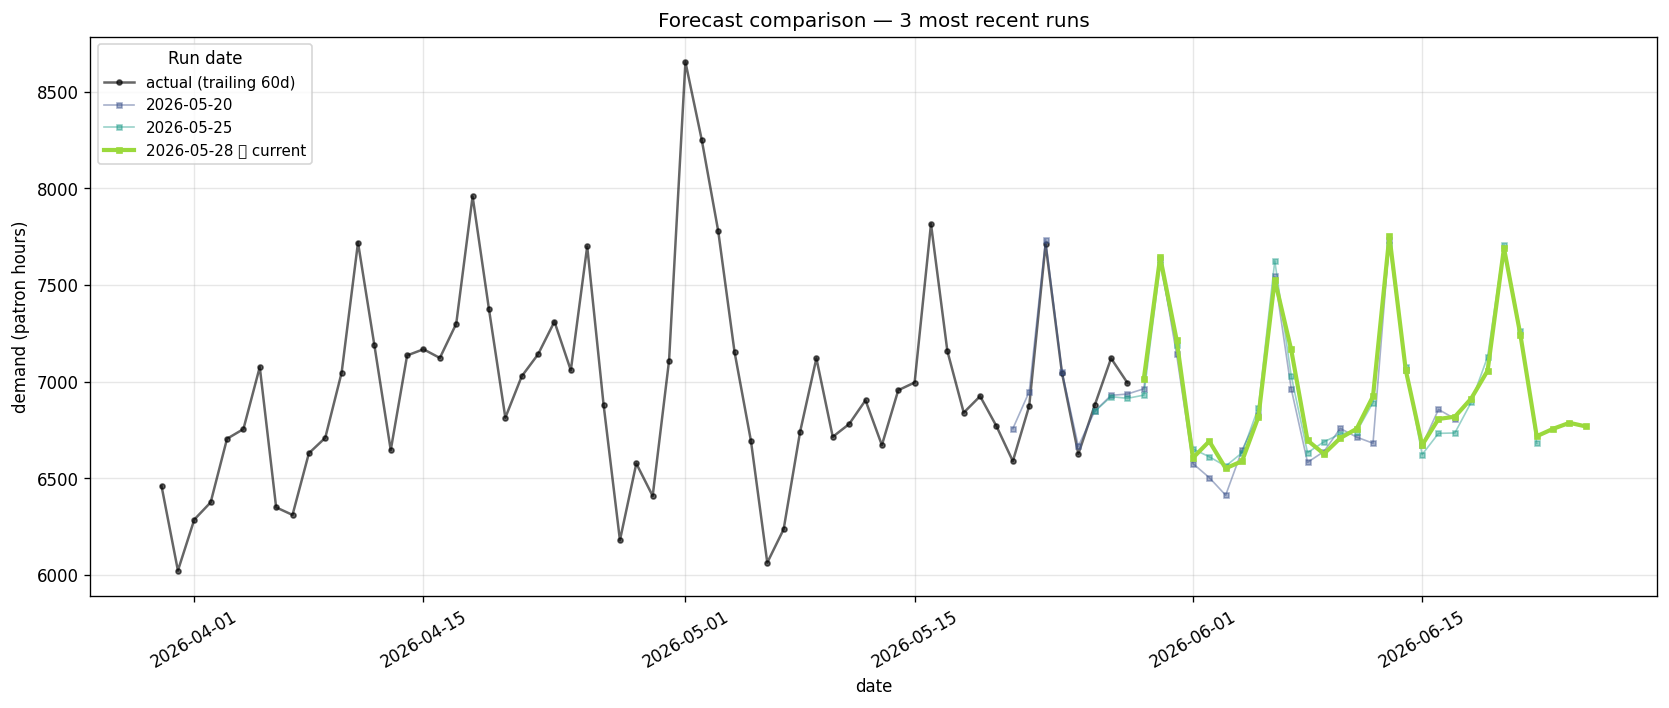
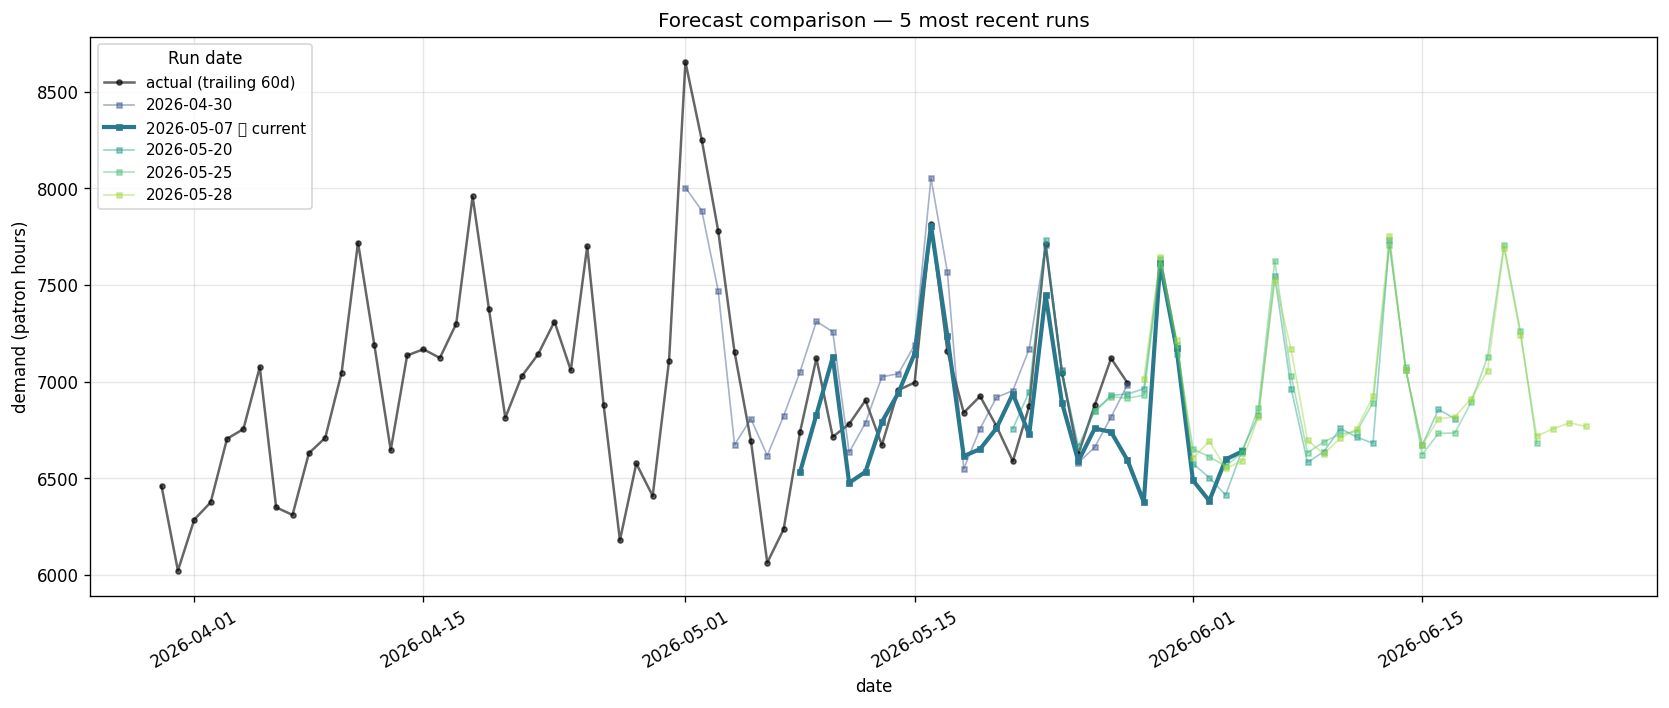
update

diff --git a/run_schedule.py b/run_schedule.py
@@ -1,0 +1,118 @@
+"""run_schedule.py — run a day-by-day forecasting cycle in one command.
+
+Given an initial scheduling window (FROM TO) and a set of update run-dates, this
+produces the frozen initial plan plus each re-forecast, all from the CURRENT
+data/raw/rawdata.csv.
+
+You do NOT need to trim rawdata.csv between runs: forecast.py's leakage guard
+trains each run only on data <= its run-date. So keep every actual you have in
+rawdata.csv, and this script replays the cycle by varying the run-date. Each run
+still trains honestly (no future data leaks in).
+
+After all runs it builds forecasts/tracking_comparison.png — actual demand vs
+the frozen initial plan vs the latest forecast, focused on the initial window.
+
+Examples
+--------
+    # Initial plan Jun 8-Jul 5 (run-date Jun 7), then re-forecast on Jun 14 & 19:
+    uv run python run_schedule.py --initial 2026-06-08 2026-07-05 \
+        --updates 2026-06-14 2026-06-19 --full --blend selection
+
+    # Same, but re-forecast every 7 days from the start until the window ends:
+    uv run python run_schedule.py --initial 2026-06-08 2026-07-05 \
+        --update-every 7 --full --blend selection
+
+    # See the planned runs without training anything:
+    uv run python run_schedule.py --initial 2026-06-08 2026-07-05 \
+        --updates 2026-06-14 2026-06-19 --dry-run
+"""
+from __future__ import annotations
+
+import argparse
+import sys
+
+import pandas as pd
+
+import forecast as F
+
+
+def main() -> int:
+    ap = argparse.ArgumentParser(description=__doc__,
+                                 formatter_class=argparse.RawDescriptionHelpFormatter)
+    ap.add_argument("--initial", nargs=2, metavar=("FROM", "TO"), required=True,
+                    help="Scheduling window for the frozen initial plan (ISO dates). "
+                         "Initial run-date is FROM-1.")
+    ap.add_argument("--updates", nargs="*", default=[], metavar="RUN_DATE",
+                    help="Explicit run-dates for re-forecasts, e.g. 2026-06-14 2026-06-19.")
+    ap.add_argument("--update-every", type=int, default=None, metavar="N",
+                    help="Alternative to --updates: re-forecast every N days from the "
+                         "initial run-date up to the window's TO date.")
+    ap.add_argument("--full", action="store_true", help="Use the 6-model hybrid.")
+    ap.add_argument("--blend", choices=["equal", "selection"], default="equal",
+                    help="Hybrid blend method (implies --full when 'selection').")
+    ap.add_argument("--dry-run", action="store_true",
+                    help="Print the planned runs and exit without forecasting.")
+    args = ap.parse_args()
+
+    if args.blend == "selection":
+        args.full = True
+
+    init_from = pd.Timestamp(args.initial[0]).normalize()
+    init_to = pd.Timestamp(args.initial[1]).normalize()
+    if init_from > init_to:
+        ap.error("--initial FROM must be on or before TO")
+    init_run_date = init_from - pd.Timedelta(days=1)
+
+    # Build the ordered run plan: (run_date, initial_range_or_None)
+    runs = [(init_run_date, (init_from, init_to))]
+
+    update_dates = [pd.Timestamp(u).normalize() for u in args.updates]
+    if args.update_every:
+        d = init_run_date + pd.Timedelta(days=args.update_every)
+        while d <= init_to:
+            update_dates.append(d)
+            d += pd.Timedelta(days=args.update_every)
+    for d in sorted(set(update_dates)):
+        if d > init_run_date:
+            runs.append((d, None))
+
+    # Validate against available data
+    demand = F.load_demand()
+    last_data = demand.date.max()
+    print("=== Forecast schedule ===")
+    print(f"  rawdata.csv covers ... {last_data.date()}")
+    print(f"  mode: {'hybrid-'+args.blend if args.full else 'lgbm_l2'}")
+    print(f"  planned runs:")
+    for run_date, irange in runs:
+        tag = f"INITIAL plan {irange[0].date()}..{irange[1].date()}" if irange else "update"
+        warn = "  <-- WARNING: run-date is beyond rawdata.csv" if run_date > last_data else ""
+        print(f"    run-date {run_date.date()}  ({tag}){warn}")
+
+    if any(rd > last_data for rd, _ in runs):
+        print("\n  [error] one or more run-dates are beyond the data. Append actuals "
+              "to rawdata.csv first.")
+        return 1
+
+    if args.dry_run:
+        print("\n  (dry-run — nothing executed)")
+        return 0
+
+    latest_demand = demand
+    for run_date, irange in runs:
+        tag = "INITIAL" if irange else "UPDATE"
+        print(f"\n{'#'*60}\n### {tag} run — run-date {run_date.date()}\n{'#'*60}")
+        preds, latest_demand = F.make_forecast(run_date, use_hybrid=args.full, blend=args.blend)
+        F.save_outputs(preds, run_date, latest_demand, use_hybrid=args.full,
+                       blend=args.blend, initial_range=irange)
+
+    print(f"\n{'#'*60}\n### Tracking + comparison charts\n{'#'*60}")
+    F.make_tracking_chart(latest_demand)
+    F.make_comparison_chart(runs[-1][0], latest_demand)
+    print("\n=== Schedule complete ===")
+    print("  -> forecasts/tracking_comparison.png  (actual vs initial plan vs latest)")
+    print("  -> forecasts/tracking_comparison.csv")
+    return 0
+
+
+if __name__ == "__main__":
+    sys.exit(main())

diff --git a/forecast.py b/forecast.py
@@ -538,11 +538,21 @@ def make_tracking_chart(demand: pd.DataFrame) -> None:
         return
 
     initial = initials[-1]            # current cycle's frozen baseline
-    latest = runs[-1]                 # most recent forecast overall
     win_from, win_to = initial["range"]   # the scheduling window
 
     init_p = pd.read_csv(initial["pred_path"], parse_dates=["date"])
-    late_p = pd.read_csv(latest["pred_path"], parse_dates=["date"])
+
+    # 'latest' = the most recent run (after the initial) whose forecast actually
+    # overlaps the scheduling window — so stray runs for other periods don't
+    # blank out the comparison line.
+    latest, late_p = initial, init_p
+    for r in reversed(runs):
+        if r["run_date"] <= initial["run_date"]:
+            continue
+        cand = pd.read_csv(r["pred_path"], parse_dates=["date"])
+        if ((cand.date >= win_from) & (cand.date <= win_to)).any():
+            latest, late_p = r, cand
+            break
 
     # Clip every series to the scheduling window
     init_p = init_p[(init_p.date >= win_from) & (init_p.date <= win_to)]
